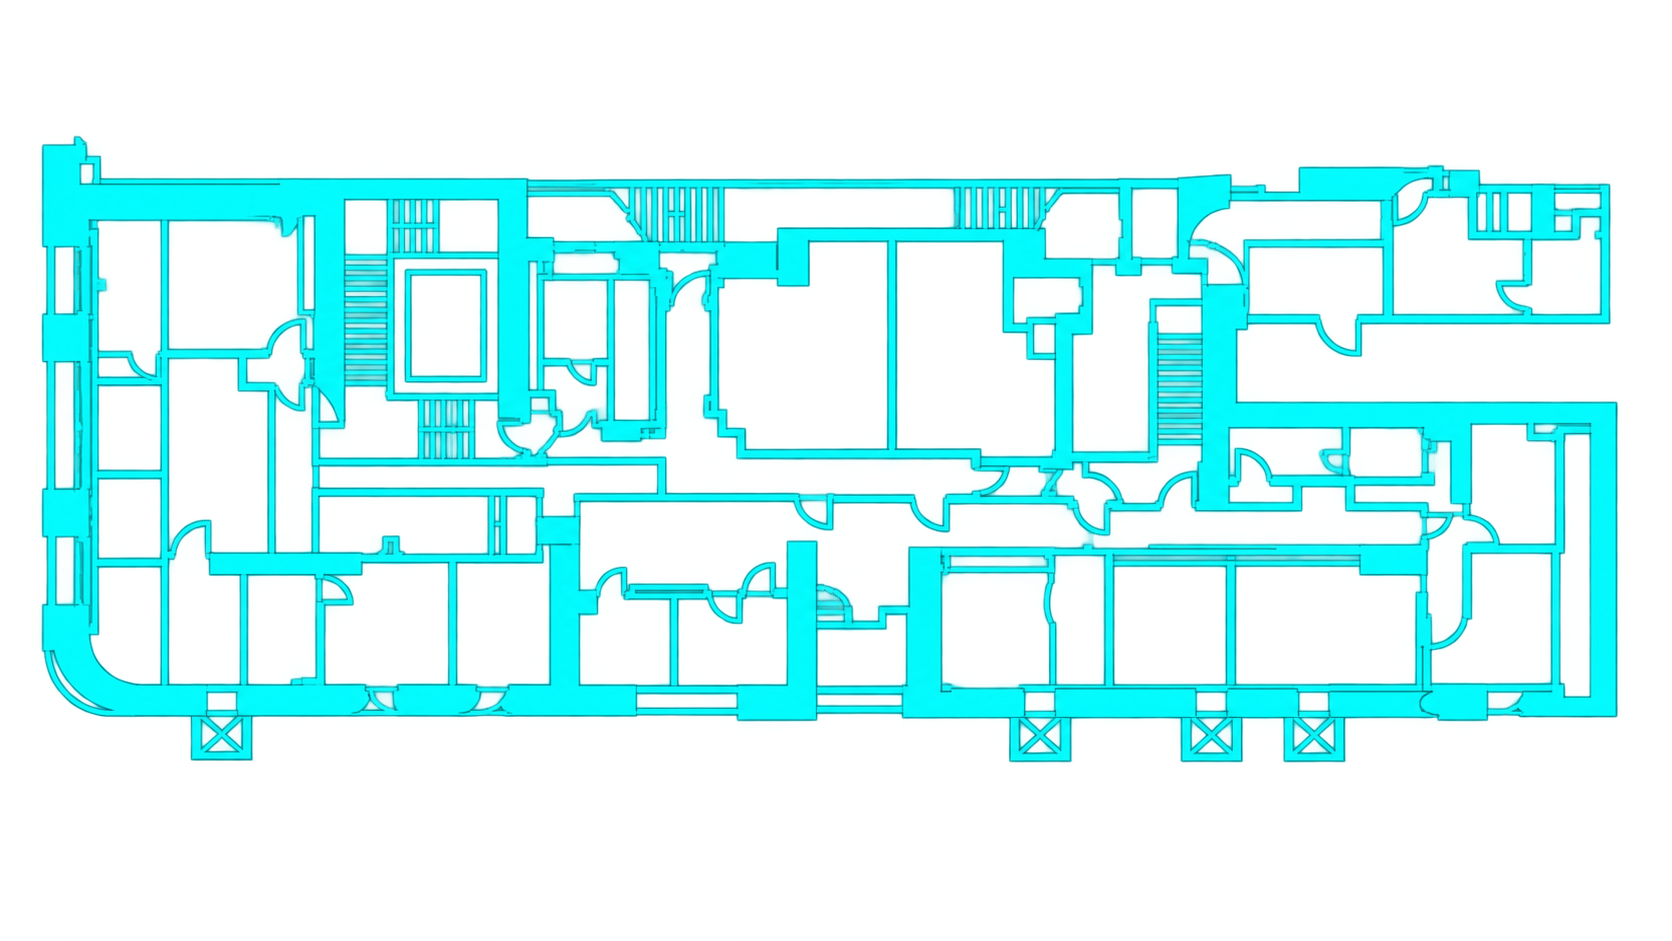
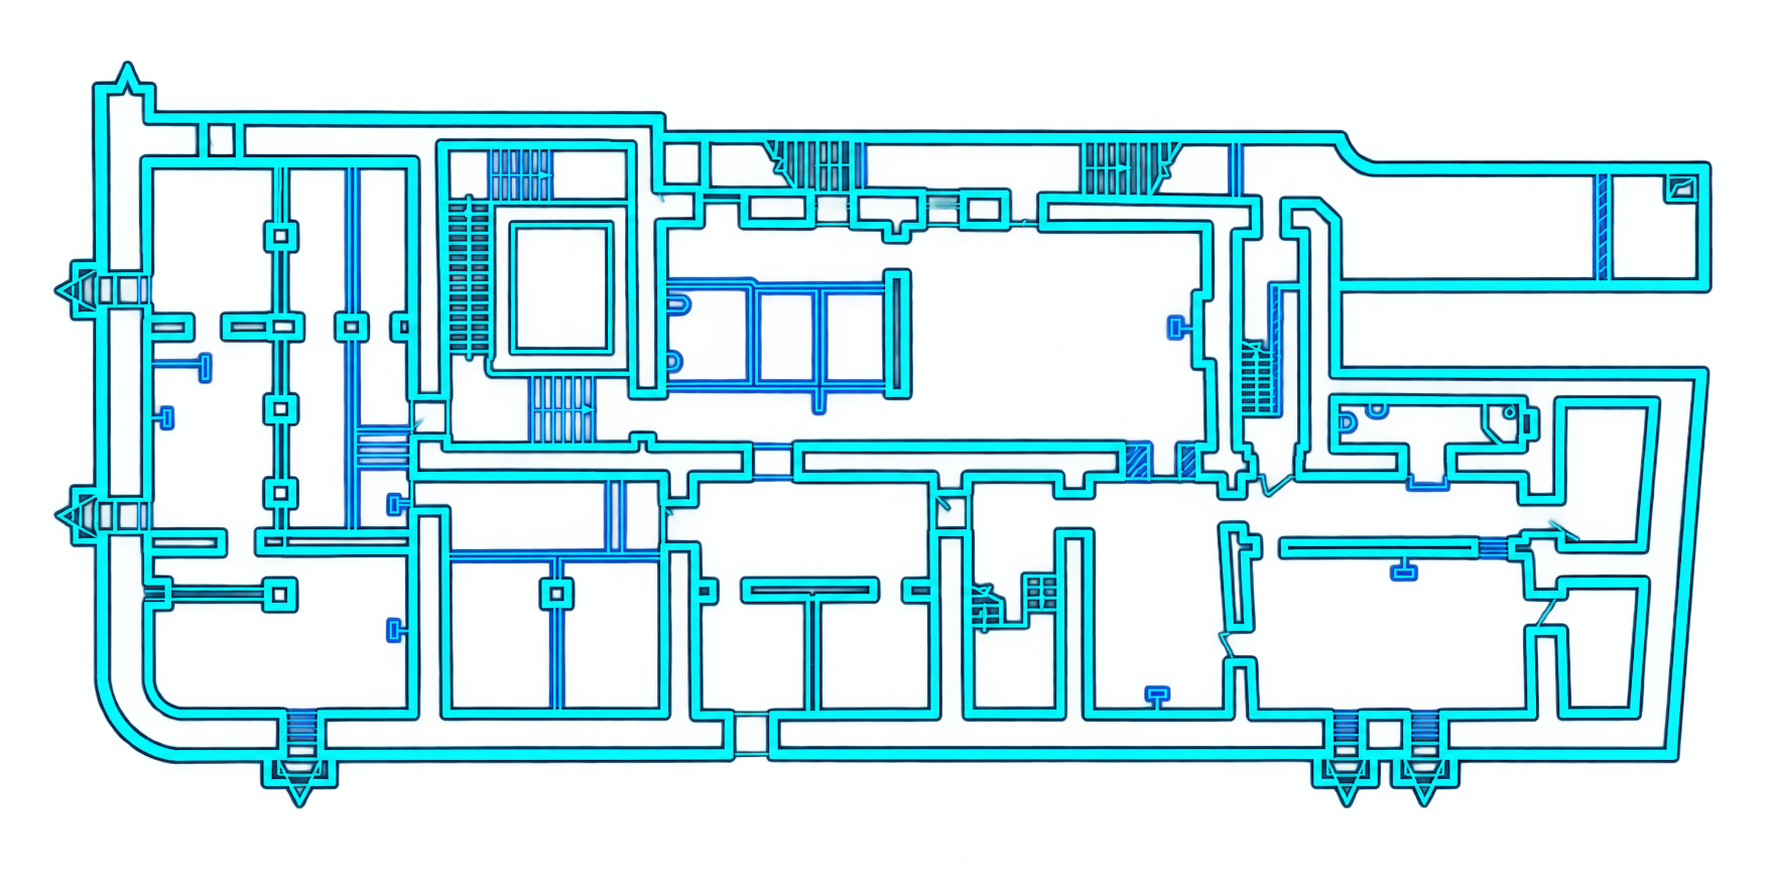
[UPDATE]

diff --git a/apps/web/src/styles.css b/apps/web/src/styles.css
@@ -1592,7 +1592,27 @@ pre {
 .editor-map-zoom button:not(:disabled):hover { background: #123b58; cursor: pointer; }
 .editor-map-zoom button:disabled { color: #4e6374; }
 .editor-map-help { margin: 0; padding: 0 17px 15px; color: #7793ad; font-size: 10px; line-height: 1.45; }
-.editor-bindings { min-height: 0; max-height: none; overflow: auto; }
+.editor-bindings {
+  min-height: 0;
+  max-height: none;
+  overflow: auto;
+  scrollbar-gutter: stable;
+  scrollbar-color: #3b779f #081523;
+  scrollbar-width: thin;
+}
+.editor-bindings::-webkit-scrollbar { width: 10px; }
+.editor-bindings::-webkit-scrollbar-track {
+  border-left: 1px solid #1d3048;
+  background: #081523;
+}
+.editor-bindings::-webkit-scrollbar-thumb {
+  min-height: 44px;
+  border: 2px solid #081523;
+  border-radius: 999px;
+  background: #3b779f;
+}
+.editor-bindings::-webkit-scrollbar-thumb:hover { background: #5ba9d9; }
+.editor-bindings::-webkit-scrollbar-corner { background: #081523; }
 .editor-bindings > p { margin: 0; padding: 16px; color: #8299b3; font-size: 11px; line-height: 1.5; }
 .editor-bindings ol { margin: 0; padding: 0; list-style: none; }
 .editor-bindings li {
@@ -1669,7 +1689,8 @@ pre {
   display: grid;
   grid-template-columns: minmax(255px, 320px) minmax(0, 1fr) minmax(245px, 310px);
   gap: 10px;
-  align-items: end;
+  /* Усі поля стартують з однієї лінії: назви полів не «стрибають» через підказку легенди. */
+  align-items: start;
   margin: 10px 0 12px;
   padding: 10px 12px;
   border: 1px solid #263f5b;
@@ -1692,6 +1713,7 @@ pre {
 }
 .editor-label-bar label { grid-column: 1 / -1; }
 .editor-label-fields { display: grid; grid-template-columns: 72px minmax(0, 1fr) auto; gap: 6px; }
+.editor-label-fields > button { min-height: 38px; }
 .editor-label-bar small { color: #7592aa; font-size: 9px; line-height: 1.35; }
 .editor-label-bar button,
 .editor-current-selection button {
